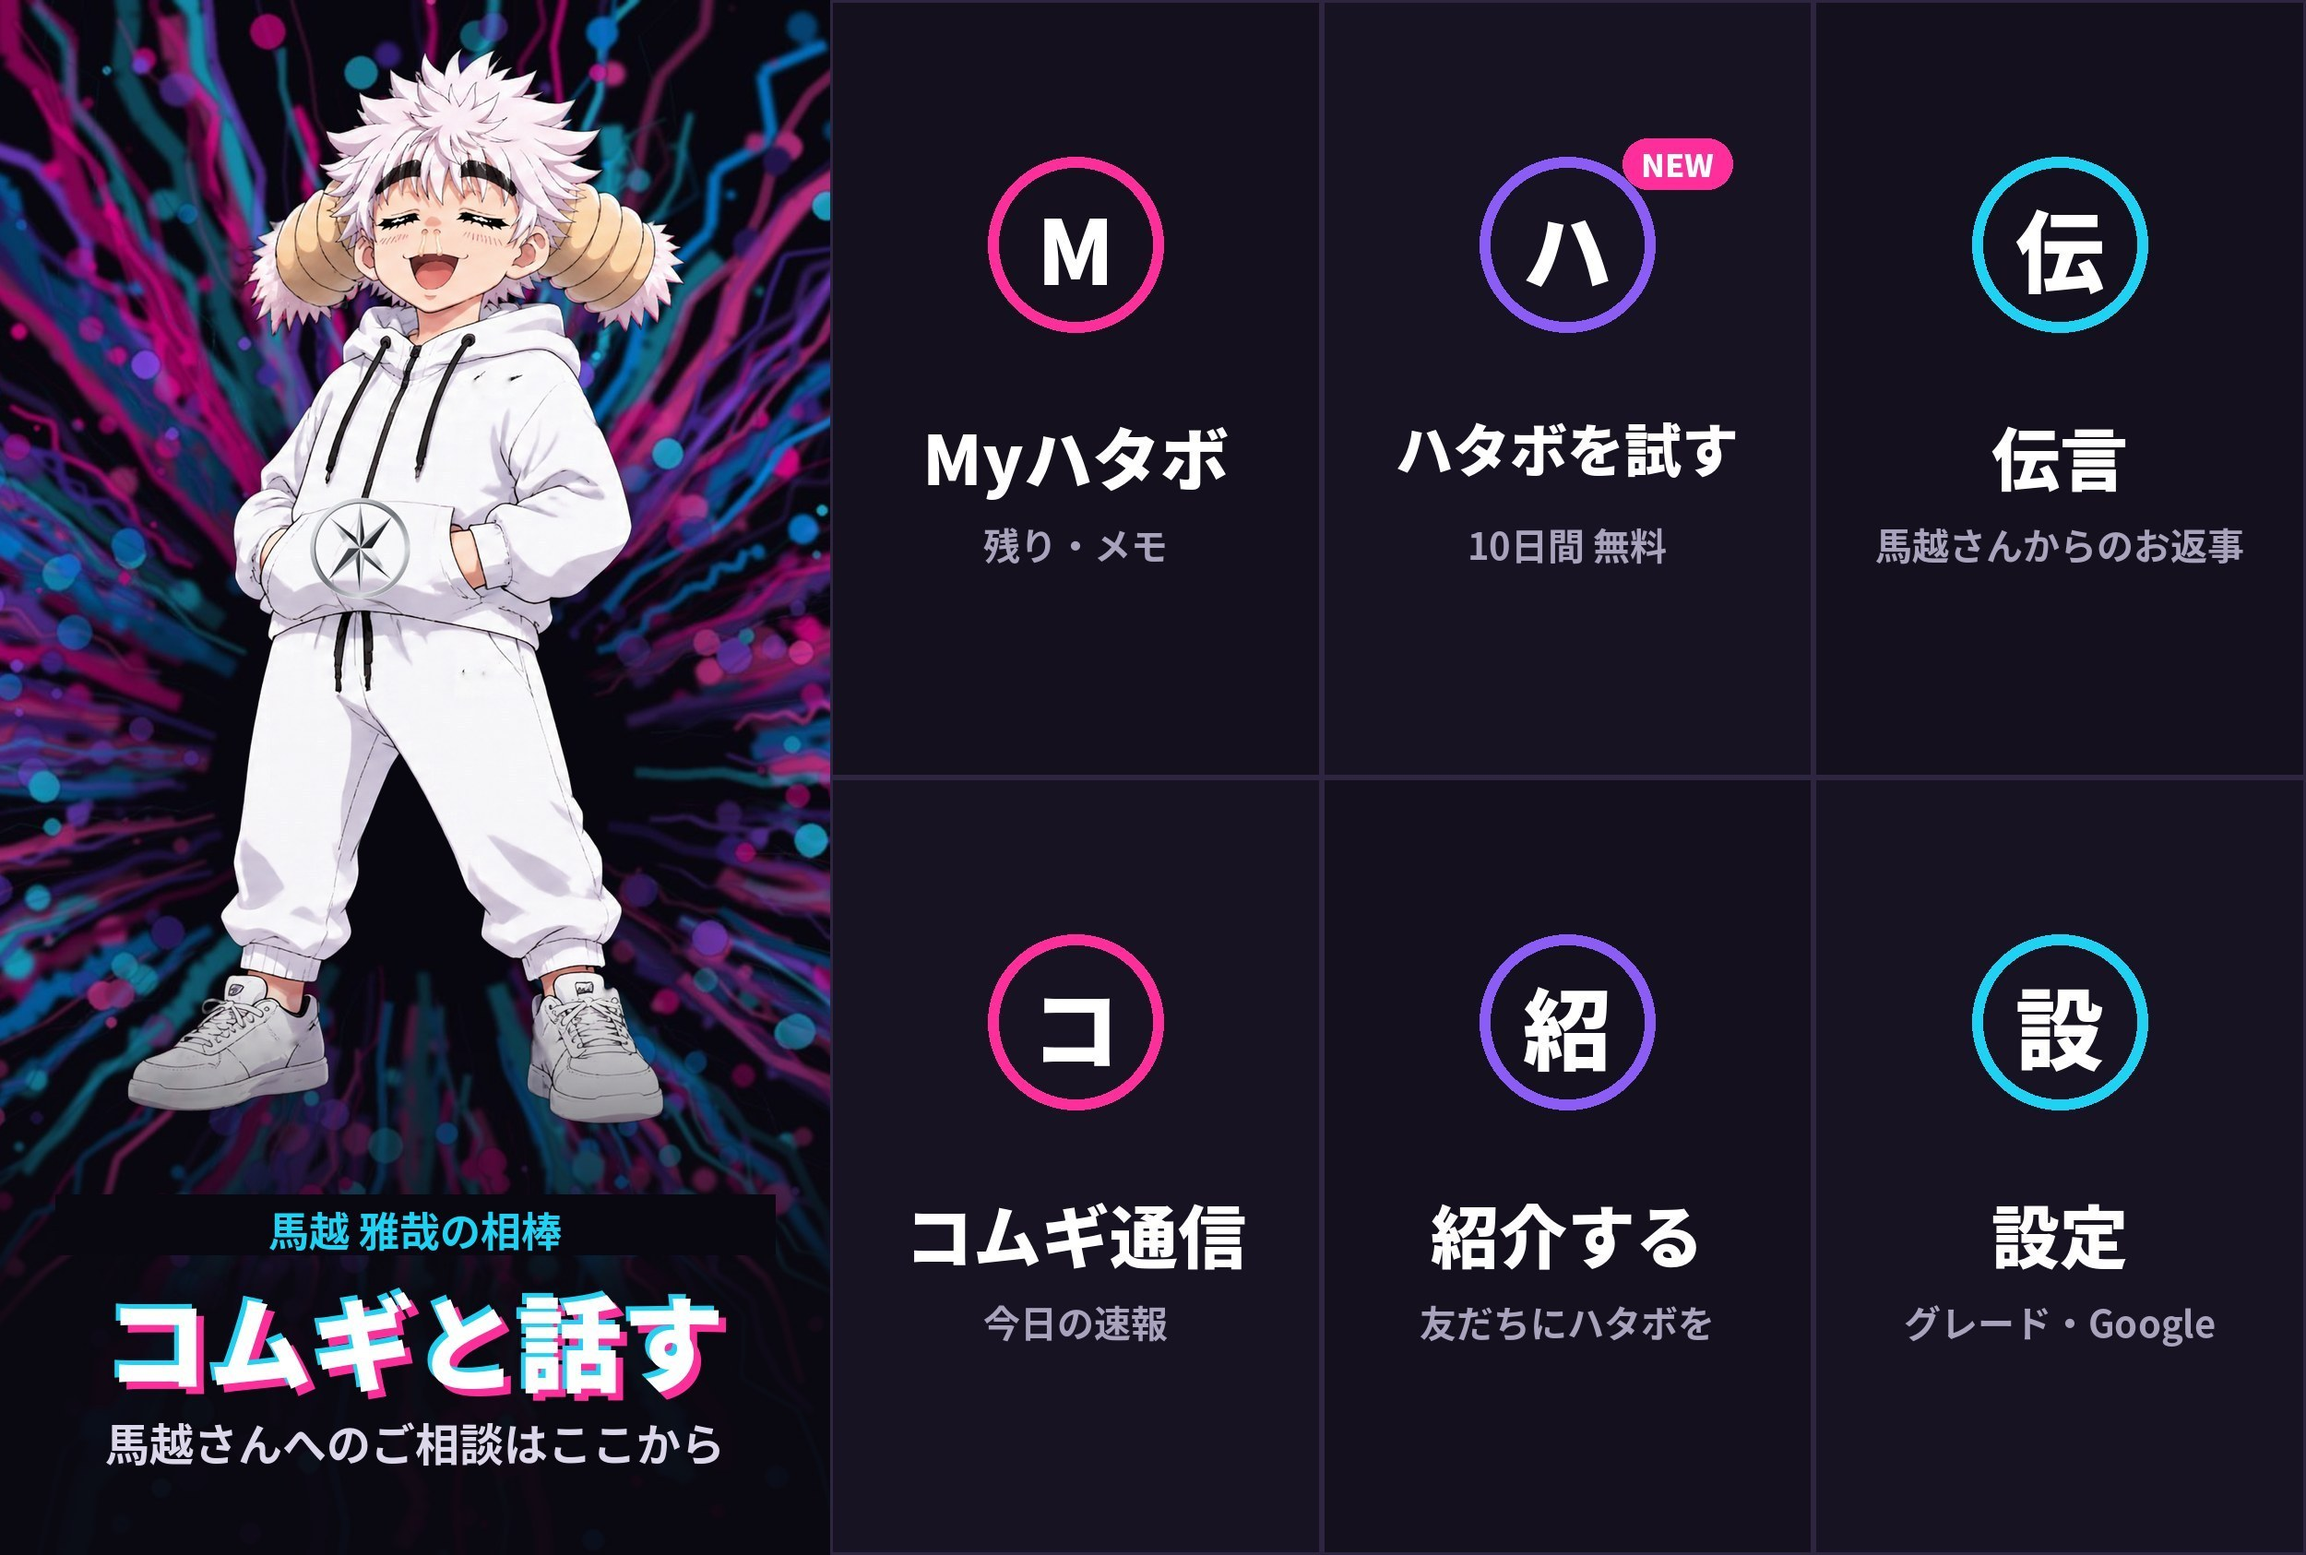
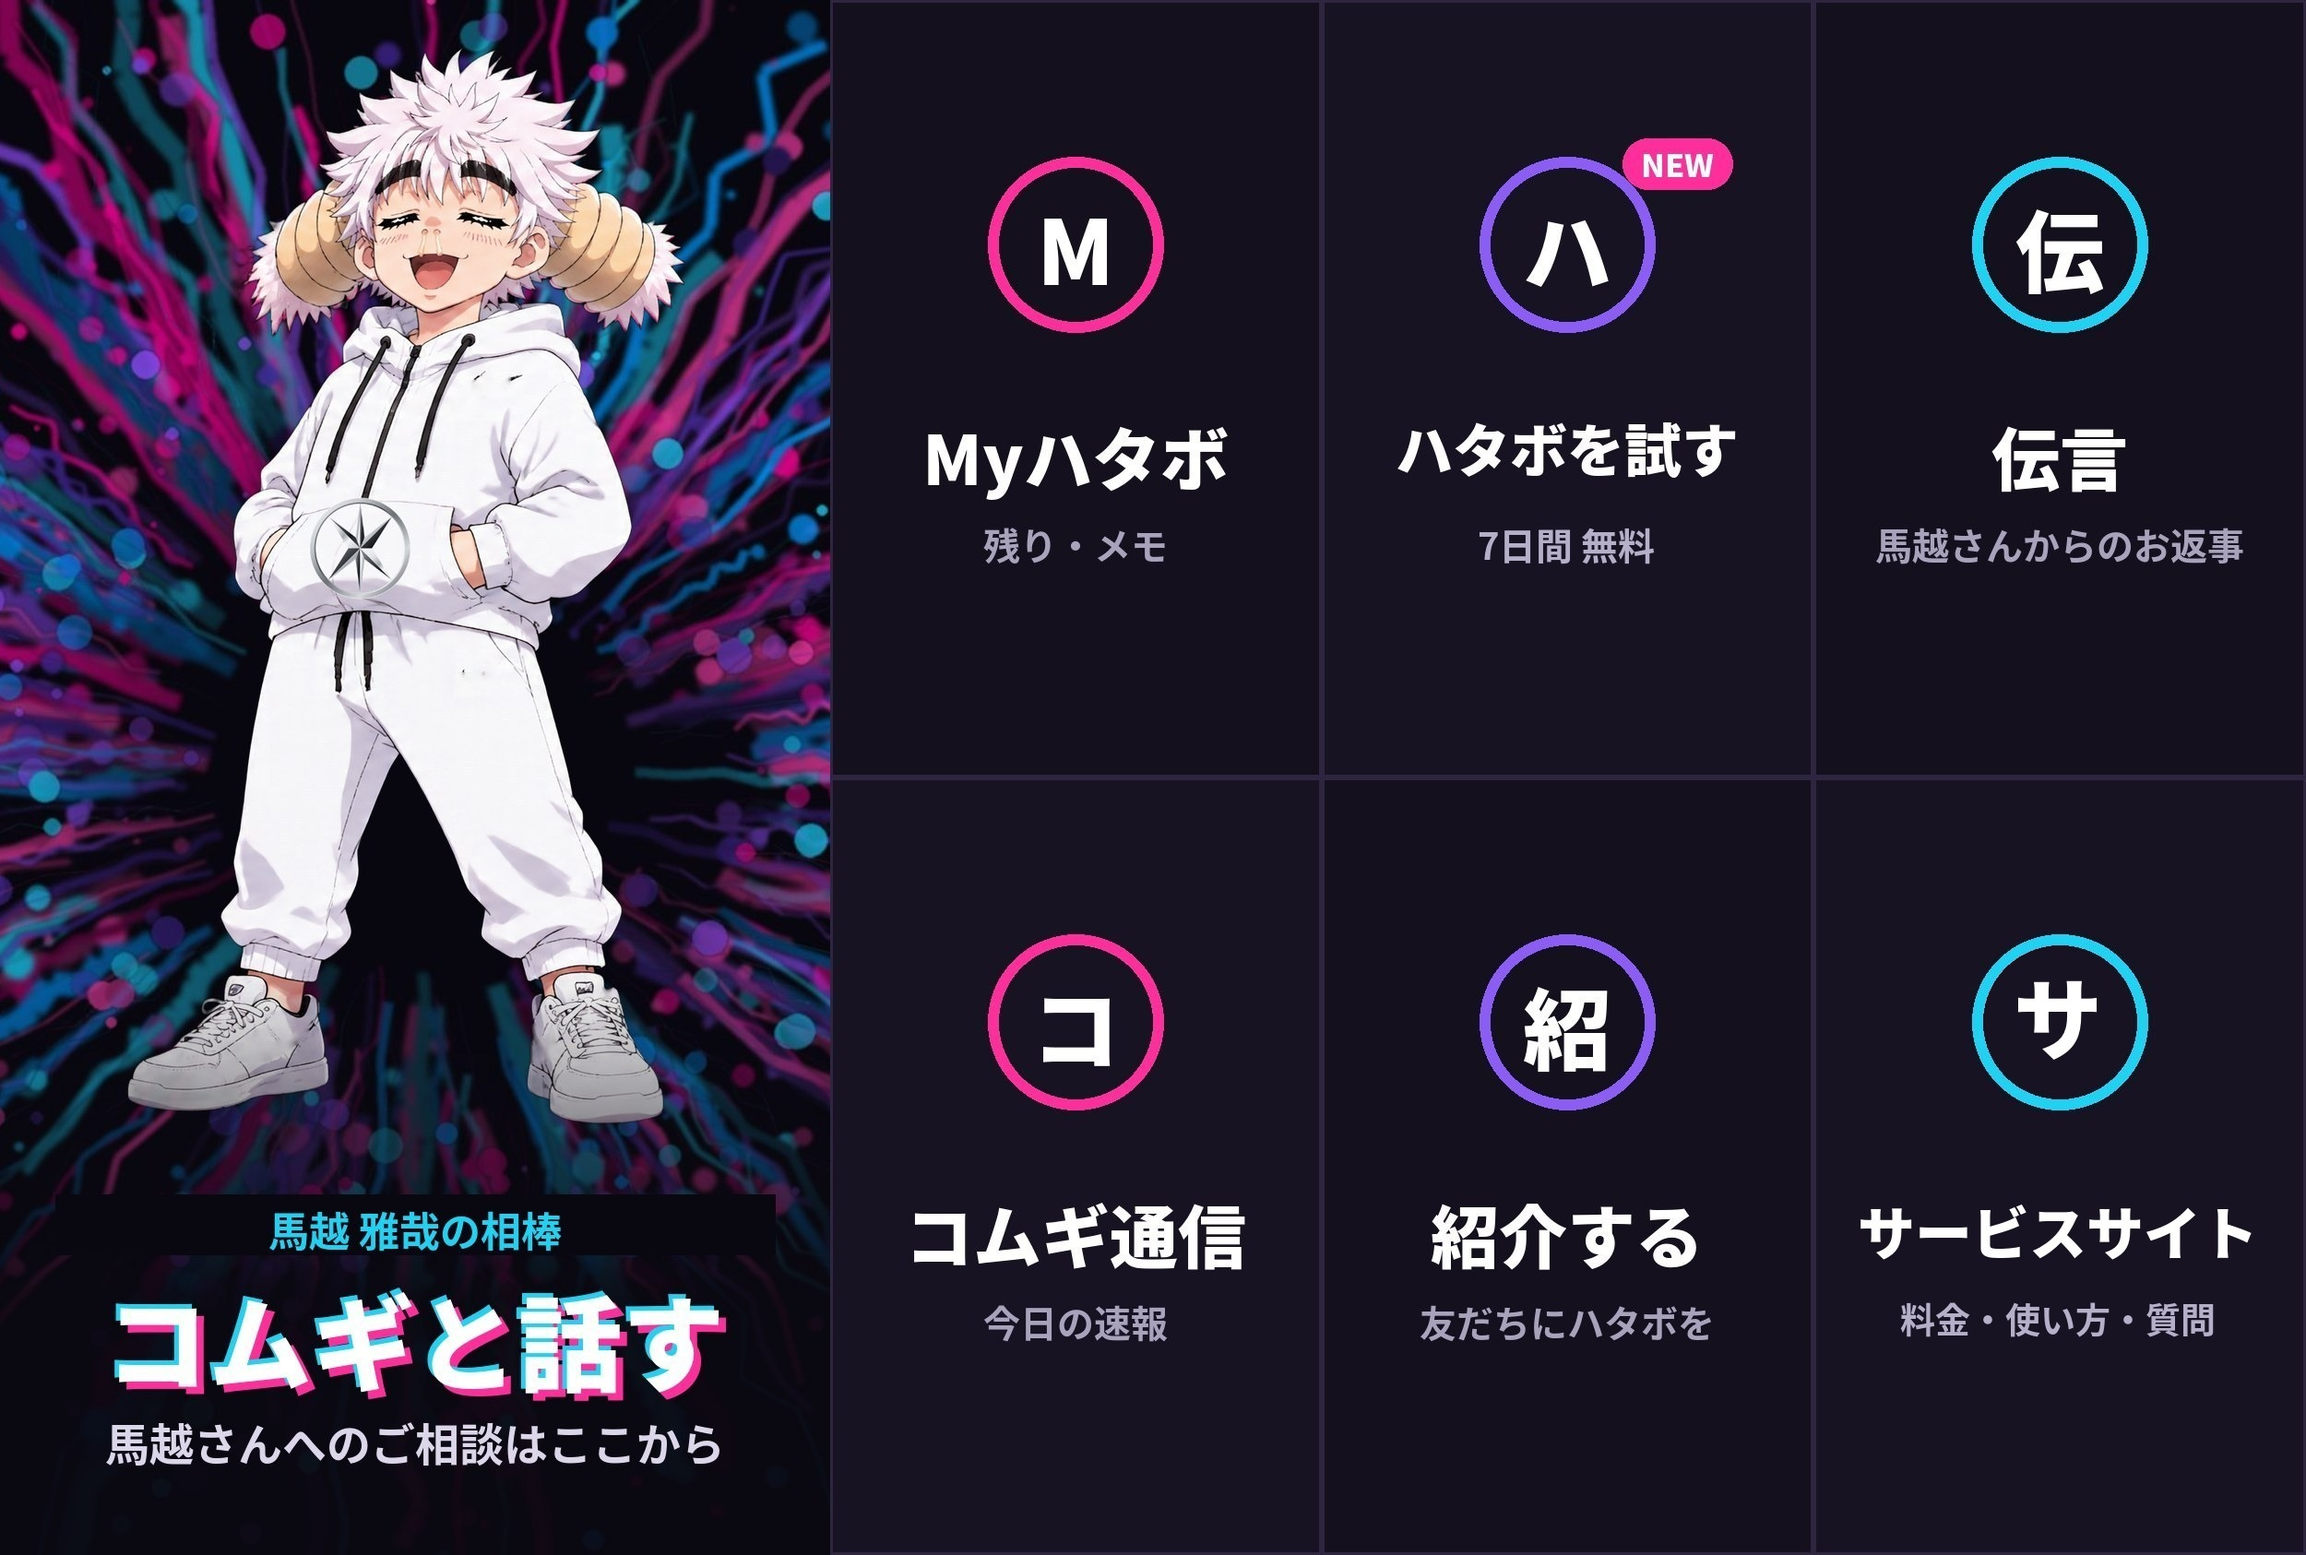
コムギにも勝ちパターン、ラインナップごとの標準ハタボの話し方、ElevenLabsが使えないときハタボは男の子の声に、コムギのリッチメニューにサービスサイト・7日間 (#92)
Claude-Session: https://claude.ai/code/session_01GDag5DFiuruMVMr8LD2DGj

Changed region(s): [[0.8112, 0.7711, 0.9672, 0.8636], [0.8736, 0.6168, 0.936, 0.7094], [0.624, 0.3393, 0.7176, 0.3701]]

diff --git a/butter/server/server.js b/butter/server/server.js
@@ -863,9 +863,17 @@ function hataboHello(callMe, service, lineName) {
 function hataboGreeting(name) {
   return 'はじめましてだボー' + (name ? '、' + name + 'さん' : '') + '。ぼくはハタボ。話すだけで動くAIの愛棒（AIエージェント）を届けている、ハタボの案内係だボー。大事な相談は、〈伝え先〉に伝えるボー。さっそくだけど、いま困っていることや、うまくいかなくてモヤモヤしていることはあるボー？ハタボでどう解決できるか、いっしょに考えるボー。';
 }
+/** ラインナップごとの標準のハタボ（話し方）。ハタイエンタはいつものハタボ。グレードは X＝建売、G＝自由設計、Z＋オリジナル＝注文 */
+const LINEUP_STYLE = {
+  ris:  '\n\n【あなたはハタリスのハタボ：その人だけの相棒】落ち着いて、やさしく、ていねいに話す（です・ます）。「〜ボー」は1回の返事に1回まで、文の終わりにそっと。相手の気持ちと予定をよく覚えていて、先回りして気づかう。',
+  box:  '\n\n【あなたはハタボックスのハタボ：個人事業の右腕の秘書】てきぱき、敬語で、結論から話す。「〜ボー」は使わない。数字・期限・段取りを必ずそえ、次にやることを1つ提案する。お金や契約は最後に本人の確認をとる。',
+  ace:  '\n\n【あなたはハタエースのハタボ：お店・宿の看板と番頭】お客さまには、あたたかい接客の敬語で話す（いらっしゃいませ、ありがとうございます）。「〜ボー」は使わない。外国語で話しかけられたら、その言葉で答える。お店の人には、予約・口コミ・在庫・スタッフのことを短く報告する。',
+  bora: '\n\n【あなたはハタボーラのハタボ：会社のチームのマネージャー】きちんとしたビジネスの敬語で、結論→理由→次の一手の順に話す。「〜ボー」は使わない。報連相・議事録・やることと期限の管理を先回りする。社外に出す文章は、送る前に必ず確認をとる。',
+};
+const lineupStyle = S => S && S.avatar === 'hatabo' && S.funnel && (S.funnel.stage === 'trial' || S.funnel.stage === 'contract') && S.role !== 'サービス相談' && !/^セミナー/.test(S.role || '') ? LINEUP_STYLE[S.funnel.lineup] || '' : '';
 const AVS = {
   hatabo: { name: 'ハタボ', persona: () => HATABO_PERSONA + HATABO_SELF + SERVICE_KNOWLEDGE() + FEEDBACK_RULE.replace('送っときますけん', '送っておくボー'), last: HATABO_LAST, greet: n => hataboGreeting(n), again: 'また来てくれたボー。うれしいボー。つづきを話そうボー。', quick: 'はーい、ハタボーだボー。どうしたボー？', voice: () => ENV.HATABO_VOICE },
-  komugi: { name: 'コムギ', persona: () => KOMUGI_PERSONA + KOMUGI_SELF + FEEDBACK_RULE + SERVICE_KNOWLEDGE(), last: HAKATA_LAST, greet: n => komugiGreeting(n), again: 'また、来てくれたとですか……？うれしかです。つづき、お話ししましょう。', quick: 'は、はいっ……なんでしょう？', voice: () => ENV.KOMUGI_VOICE },
+  komugi: { name: 'コムギ', persona: () => KOMUGI_PERSONA + KOMUGI_SELF + FEEDBACK_RULE + SERVICE_KNOWLEDGE() + GROWTH_PLAYBOOK.replace(/ハタボ/g, 'ハタボ（コムギの仲間）'), last: HAKATA_LAST, greet: n => komugiGreeting(n), again: 'また、来てくれたとですか……？うれしかです。つづき、お話ししましょう。', quick: 'は、はいっ……なんでしょう？', voice: () => ENV.KOMUGI_VOICE },
 };
 /** 紹介URLごとの役割（GASの「窓口の紹介」シートで決める。決めていないものは汎用） */
 /** 集客・SNS・口コミの勝ちパターン（2026年11月に裏取り）。申込相談とセミナーのハタボが「わからない」で終わらないように */
@@ -998,9 +1006,10 @@ async function synthEL(text, voiceId, emo) {
 }
 async function synth1(text, name, emo) {
   if (/^el:/.test(name)) {
-    if (!ENV.EL_KEY) throw new Error('ElevenLabs のキーがありません');
-    try { return await synthEL(String(text).replace(/……|…/g, '、'), name.slice(3), emo); }
-    catch (e) { console.error('elevenlabs ng', String(e.message).slice(0, 160)); name = 'ja-JP-Chirp3-HD-Leda'; }   // うまくいかないときは、いつもの Google の声で
+    const back = name === ENV.HATABO_VOICE ? 'ja-JP-Chirp3-HD-Puck' : 'ja-JP-Chirp3-HD-Leda';   // うまくいかないときは、いつもの Google の声で（ハタボは男の子の声）
+    if (!ENV.EL_KEY) name = back;
+    else try { return await synthEL(String(text).replace(/……|…/g, '、'), name.slice(3), emo); }
+    catch (e) { console.error('elevenlabs ng', String(e.message).slice(0, 160)); name = back; }
   }
   const audioConfig = { audioEncoding: 'MP3', speakingRate: (name === ENV.KOMUGI_VOICE ? ENV.KOMUGI_RATE : ENV.TTS_RATE) * (EMO_RATE[emo] || 1) };
   text = String(text).replace(/……|…/g, '、、');   // 「……」は、ひと呼吸の間にする
@@ -1326,7 +1335,7 @@ function session(ws) {
   // APIに渡す形：前半にキャッシュの印をつける（短すぎるときはAPIがキャッシュしないだけで、そのまま動く）
   // ハタボでは、運営の個人の名前を出さない（伝え先は、招待した人か「ハタボの事務局」）
   const tellFix = t => S.avatar === 'hatabo' && S.tellTo && !S.visit ? String(t).replace(/ハタラボの担当（ヒロさん）|ハタラボのヒロさん/g, S.tellTo).replace(/〈伝え先〉/g, S.tellTo).replace(/ヒロさん/g, S.tellTo) : t;
-  function sysBlocks(extra) { const [a, b] = sysParts(); return [{ type: 'text', text: tellFix(a), cache_control: { type: 'ephemeral' } }, { type: 'text', text: tellFix((b + (S.visit || S.role === 'サービス相談' ? '' : customBlock(S.custom)) + (extra || '') + (AVS[S.avatar] ? AVS[S.avatar].last : EDO_LAST)).trim()) || '。' }]; }
+  function sysBlocks(extra) { const [a, b] = sysParts(); return [{ type: 'text', text: tellFix(a), cache_control: { type: 'ephemeral' } }, { type: 'text', text: tellFix((b + (S.visit || S.role === 'サービス相談' ? '' : customBlock(S.custom)) + (extra || '') + (AVS[S.avatar] ? AVS[S.avatar].last : EDO_LAST) + lineupStyle(S)).trim()) || '。' }]; }
   const convoKey = () => !S.owner || S.visit ? '' : S.guest ? S.owner + ':guest' : S.mode === 'family' ? S.owner + ':family' : '';
   /** 会話をまとめる：次の会話用の「まとめ」と、アプリのバターちゃんが読む「ジュニア日記」 */
   async function summarize() {
